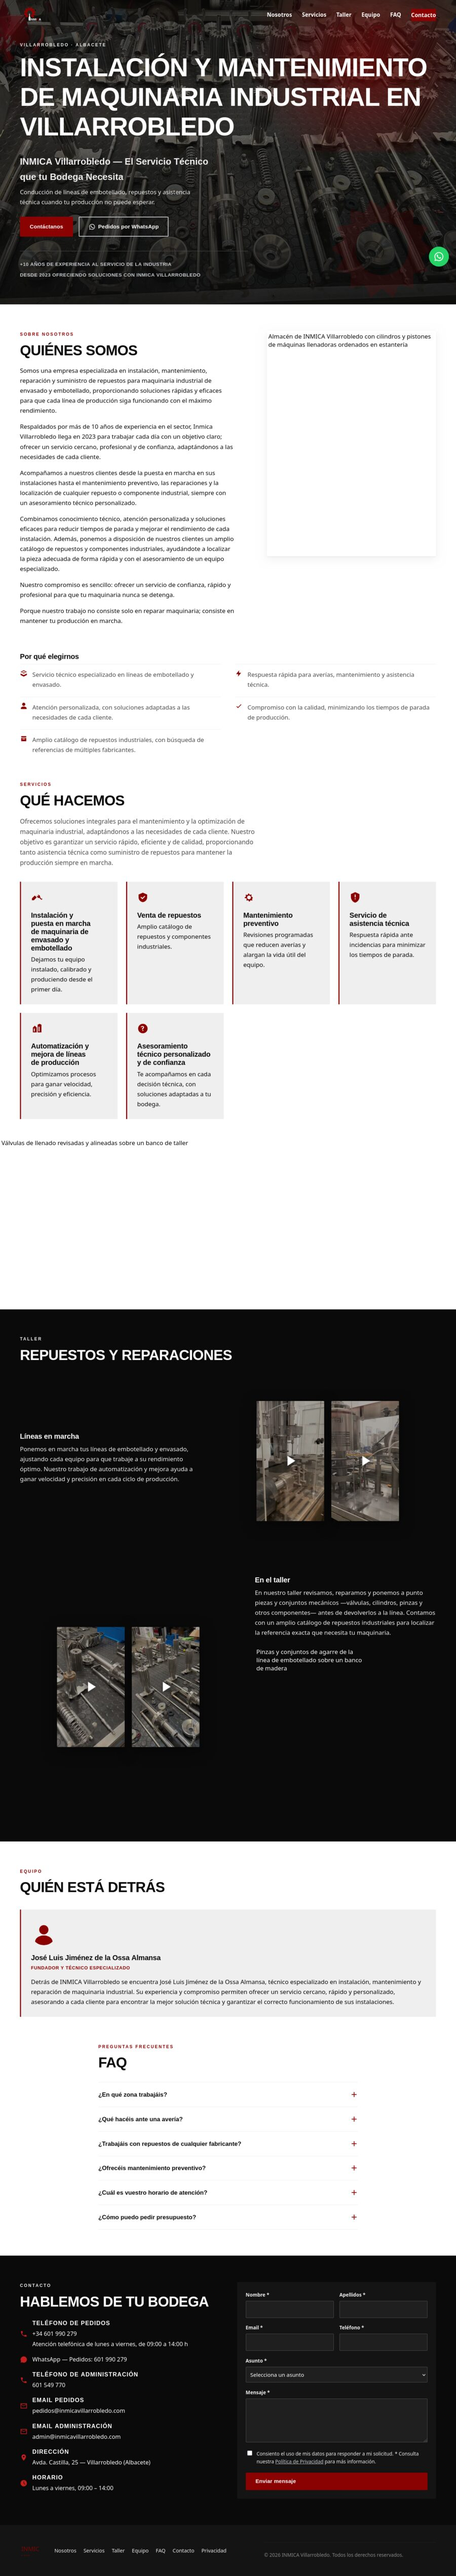
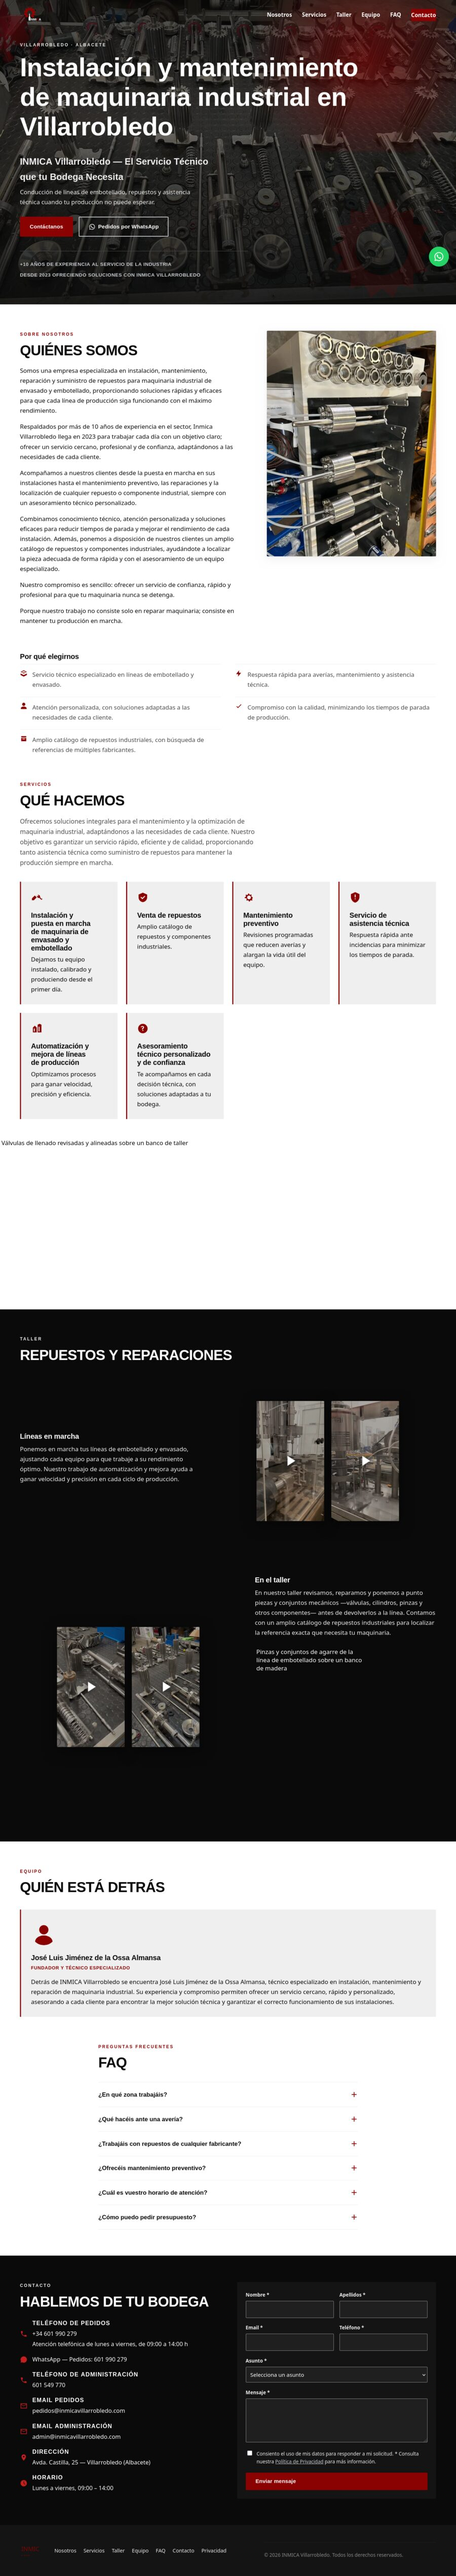
seo(inmica): tighten meta tags, fix form contrast, add service schema
Audit-driven cleanup: shortens the title/meta/OG descriptions that had
drifted out of range after the national-coverage copy change, drops the
noindexed privacy page from the sitemap, adds a hasOfferCatalog block so
structured data lists the six services, and removes the now-orphaned
black logo left over from the white-logo swap.

Also fixes a real WCAG contrast failure on the new contact form's input
borders (1.86:1 -> 4.77:1), drops forced uppercase on the H1 sentence so
it reads instead of shouts, and makes the taller video autoplay respect
Save-Data/2G connections.

Changed region(s): [[0.0622, 0.0, 0.9333, 0.0622], [0.56, 0.1244, 0.9644, 0.2176]]

diff --git a/projects/inmica/index.html b/projects/inmica/index.html
@@ -4,12 +4,13 @@
     <meta charset="utf-8" />
     <meta name="viewport" content="width=device-width, initial-scale=1" />
 
-    <title>INMICA Villarrobledo — Servicio técnico para líneas de embotellado</title>
+    <title>INMICA Villarrobledo — Repuestos y servicio técnico</title>
     <meta
       name="description"
-      content="Instalación, mantenimiento y repuestos para maquinaria industrial de envasado y embotellado. Servicio técnico en toda España, con sede en Villarrobledo (Albacete)." />
+      content="Instalación, mantenimiento y repuestos para maquinaria industrial de envasado y embotellado. Servicio técnico en toda España desde Villarrobledo." />
     <meta name="robots" content="index, follow" />
     <link rel="canonical" href="https://www.inmicavillarrobledo.com/" />
+    <link rel="preconnect" href="https://api.web3forms.com" />
 
     <!-- Open Graph / redes sociales -->
     <meta property="og:type" content="business.business" />
@@ -17,8 +18,9 @@
     <meta property="og:title" content="INMICA Villarrobledo — El servicio técnico que tu bodega necesita" />
     <meta
       property="og:description"
-      content="Instalación, mantenimiento y reparación de maquinaria industrial y líneas de embotellado. Repuestos y asistencia técnica en toda España, con sede en Villarrobledo (Albacete)." />
+      content="Instalación, mantenimiento y repuestos para maquinaria industrial. Servicio técnico en toda España, con sede en Villarrobledo (Albacete)." />
     <meta property="og:image" content="https://www.inmicavillarrobledo.com/assets/img/og.jpg" />
+    <meta property="og:image:type" content="image/jpeg" />
     <meta property="og:image:width" content="1200" />
     <meta property="og:image:height" content="630" />
     <meta property="og:image:alt" content="INMICA Villarrobledo — instalación y mantenimiento de maquinaria industrial" />
@@ -28,7 +30,7 @@
     <meta name="twitter:title" content="INMICA Villarrobledo — El servicio técnico que tu bodega necesita" />
     <meta
       name="twitter:description"
-      content="Instalación, mantenimiento y reparación de maquinaria industrial y líneas de embotellado. Servicio técnico en toda España, con sede en Villarrobledo (Albacete)." />
+      content="Instalación, mantenimiento y repuestos para maquinaria industrial. Servicio técnico en toda España desde Villarrobledo (Albacete)." />
     <meta name="twitter:image" content="https://www.inmicavillarrobledo.com/assets/img/og.jpg" />
 
     <link rel="icon" href="assets/img/favicon.ico" sizes="any" />
@@ -39,7 +41,9 @@
     <link rel="stylesheet" href="css/styles.css" />
     <script src="js/main.js" defer></script>
 
-    <!-- Datos estructurados: negocio local. Editar teléfono/horario/dirección aquí si cambian. -->
+    <!-- Datos estructurados: negocio local. Editar teléfono/horario/dirección aquí si cambian.
+         hasOfferCatalog.itemListElement debe reflejar los títulos de las tarjetas de
+         #servicios — mantenerlos en sincronía igual que la FAQ de más abajo. -->
     <script type="application/ld+json">
       {
         "@context": "https://schema.org",
@@ -93,7 +97,46 @@
             "availableLanguage": "Spanish"
           }
         ],
-        "hasMap": "https://www.google.com/maps/place//data=!4m2!3m1!1s0xd68871605b0f85b:0x58452f90640a56ff"
+        "hasMap": "https://www.google.com/maps/place//data=!4m2!3m1!1s0xd68871605b0f85b:0x58452f90640a56ff",
+        "hasOfferCatalog": {
+          "@type": "OfferCatalog",
+          "name": "Servicios",
+          "itemListElement": [
+            {
+              "@type": "Offer",
+              "itemOffered": {
+                "@type": "Service",
+                "name": "Instalación y puesta en marcha de maquinaria de envasado y embotellado"
+              }
+            },
+            {
+              "@type": "Offer",
+              "itemOffered": { "@type": "Service", "name": "Venta de repuestos" }
+            },
+            {
+              "@type": "Offer",
+              "itemOffered": { "@type": "Service", "name": "Mantenimiento preventivo" }
+            },
+            {
+              "@type": "Offer",
+              "itemOffered": { "@type": "Service", "name": "Servicio de asistencia técnica" }
+            },
+            {
+              "@type": "Offer",
+              "itemOffered": {
+                "@type": "Service",
+                "name": "Automatización y mejora de líneas de producción"
+              }
+            },
+            {
+              "@type": "Offer",
+              "itemOffered": {
+                "@type": "Service",
+                "name": "Asesoramiento técnico personalizado y de confianza"
+              }
+            }
+          ]
+        }
       }
     </script>
 

diff --git a/projects/inmica/js/main.js b/projects/inmica/js/main.js
@@ -189,9 +189,16 @@
 
   // ---- Taller video reels: autoplay in view, click-to-play as a fallback --------
   // Every <video> is muted/loop/playsinline with preload="none", so nothing is
-  // fetched until its card is actually scrolled into view. Under reduced motion the
-  // observer never attaches: the poster stays put and the play button (always in the
-  // markup) is the only way to start playback.
+  // fetched until its card is actually scrolled into view. Under reduced motion, a
+  // user request for less data (Save-Data, or a 2G-class connection), the observer
+  // never attaches: the poster stays put and the play button (always in the markup)
+  // is the only way to start playback.
+  var connection =
+    navigator.connection || navigator.webkitConnection || navigator.mozConnection;
+  var prefersLessData =
+    !!connection &&
+    (connection.saveData === true || /^(slow-2g|2g)$/.test(connection.effectiveType || ""));
+
   var videoCards = document.querySelectorAll(".video-card");
 
   videoCards.forEach(function (card) {
@@ -225,7 +232,8 @@
       card.classList.remove("is-playing");
     });
 
-    var canAutoplay = "IntersectionObserver" in window && !reduceMotionQuery.matches;
+    var canAutoplay =
+      "IntersectionObserver" in window && !reduceMotionQuery.matches && !prefersLessData;
 
     if (canAutoplay) {
       card.classList.add("has-autoplay");

diff --git a/projects/inmica/css/styles.css b/projects/inmica/css/styles.css
@@ -93,8 +93,7 @@ h3 {
 
 h1 {
   font-size: var(--h1-size);
-  text-transform: uppercase;
-  letter-spacing: -0.02em;
+  letter-spacing: -0.01em;
 }
 
 h2 {
@@ -1048,7 +1047,9 @@ ul {
   font-size: 0.95rem;
   color: var(--blanco);
   background: var(--gris-800);
-  border: 1px solid var(--gris-600);
+  /* gris-400 (no gris-600): 4.77:1 sobre gris-800, por encima del mínimo WCAG 1.4.11
+     (3:1) para límites de componentes de UI — gris-600 daba solo 1.86:1. */
+  border: 1px solid var(--gris-400);
   border-radius: var(--radius);
   padding: 0.65rem 0.75rem;
 }
